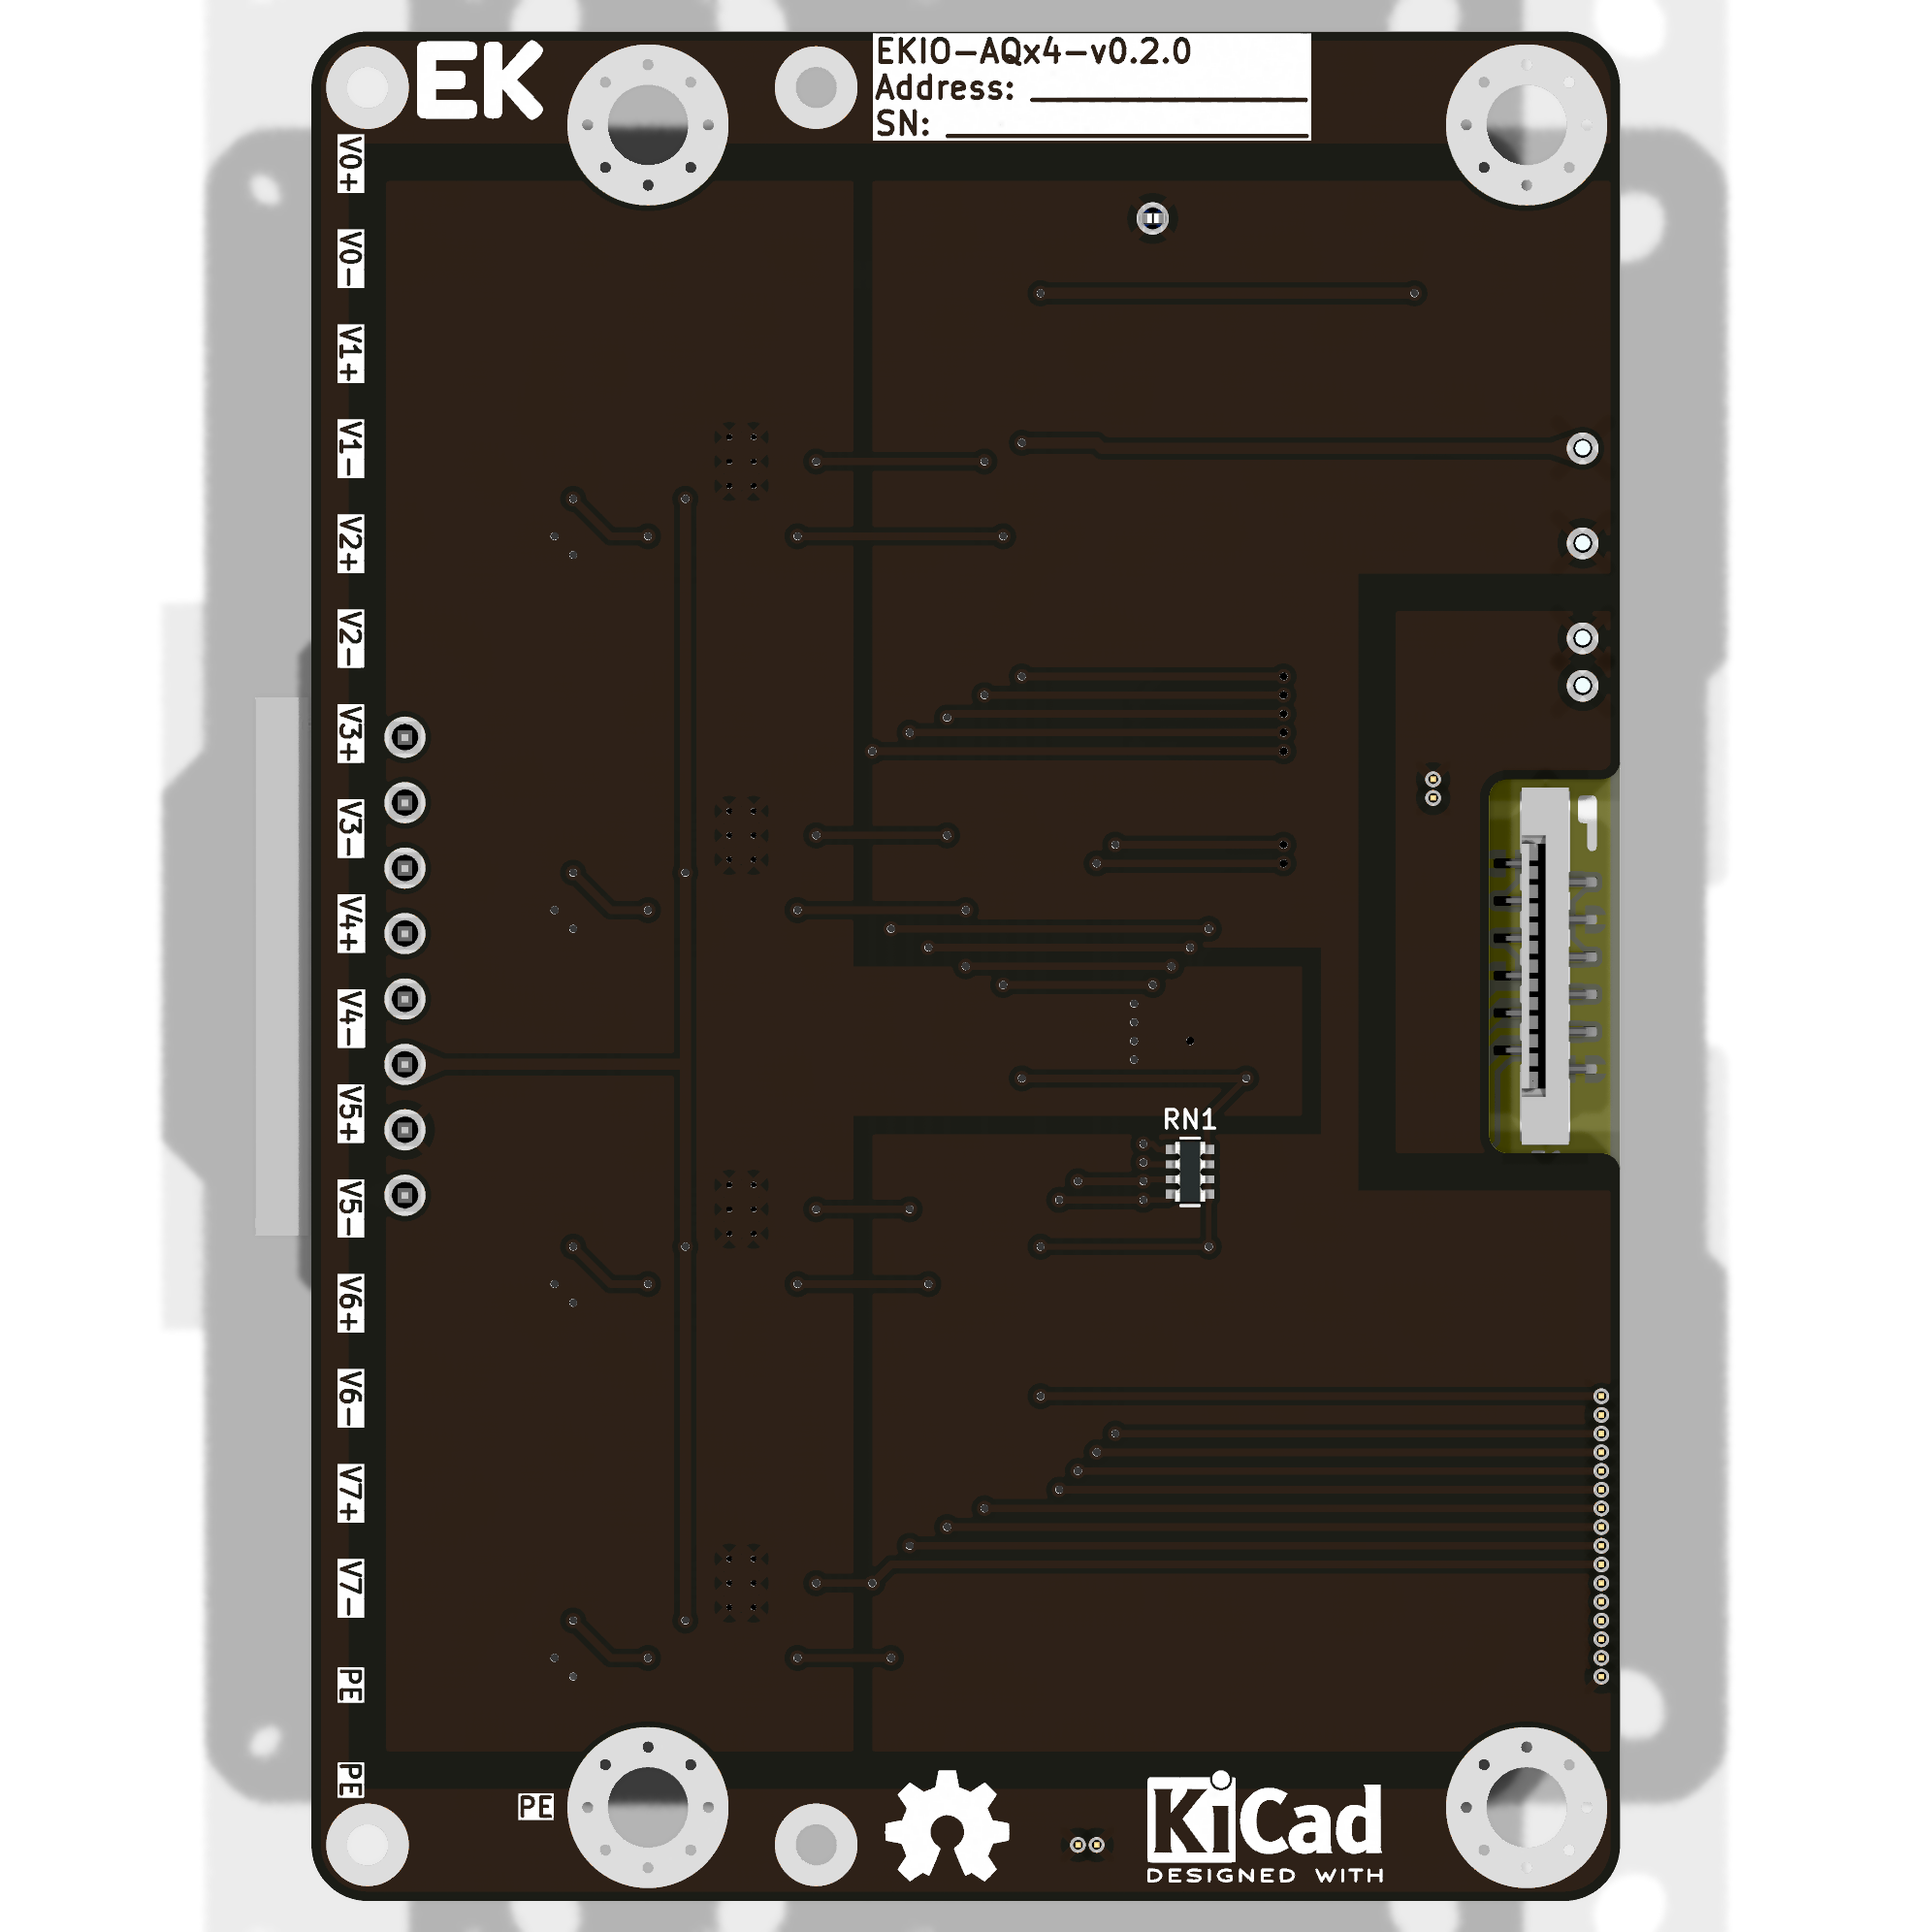
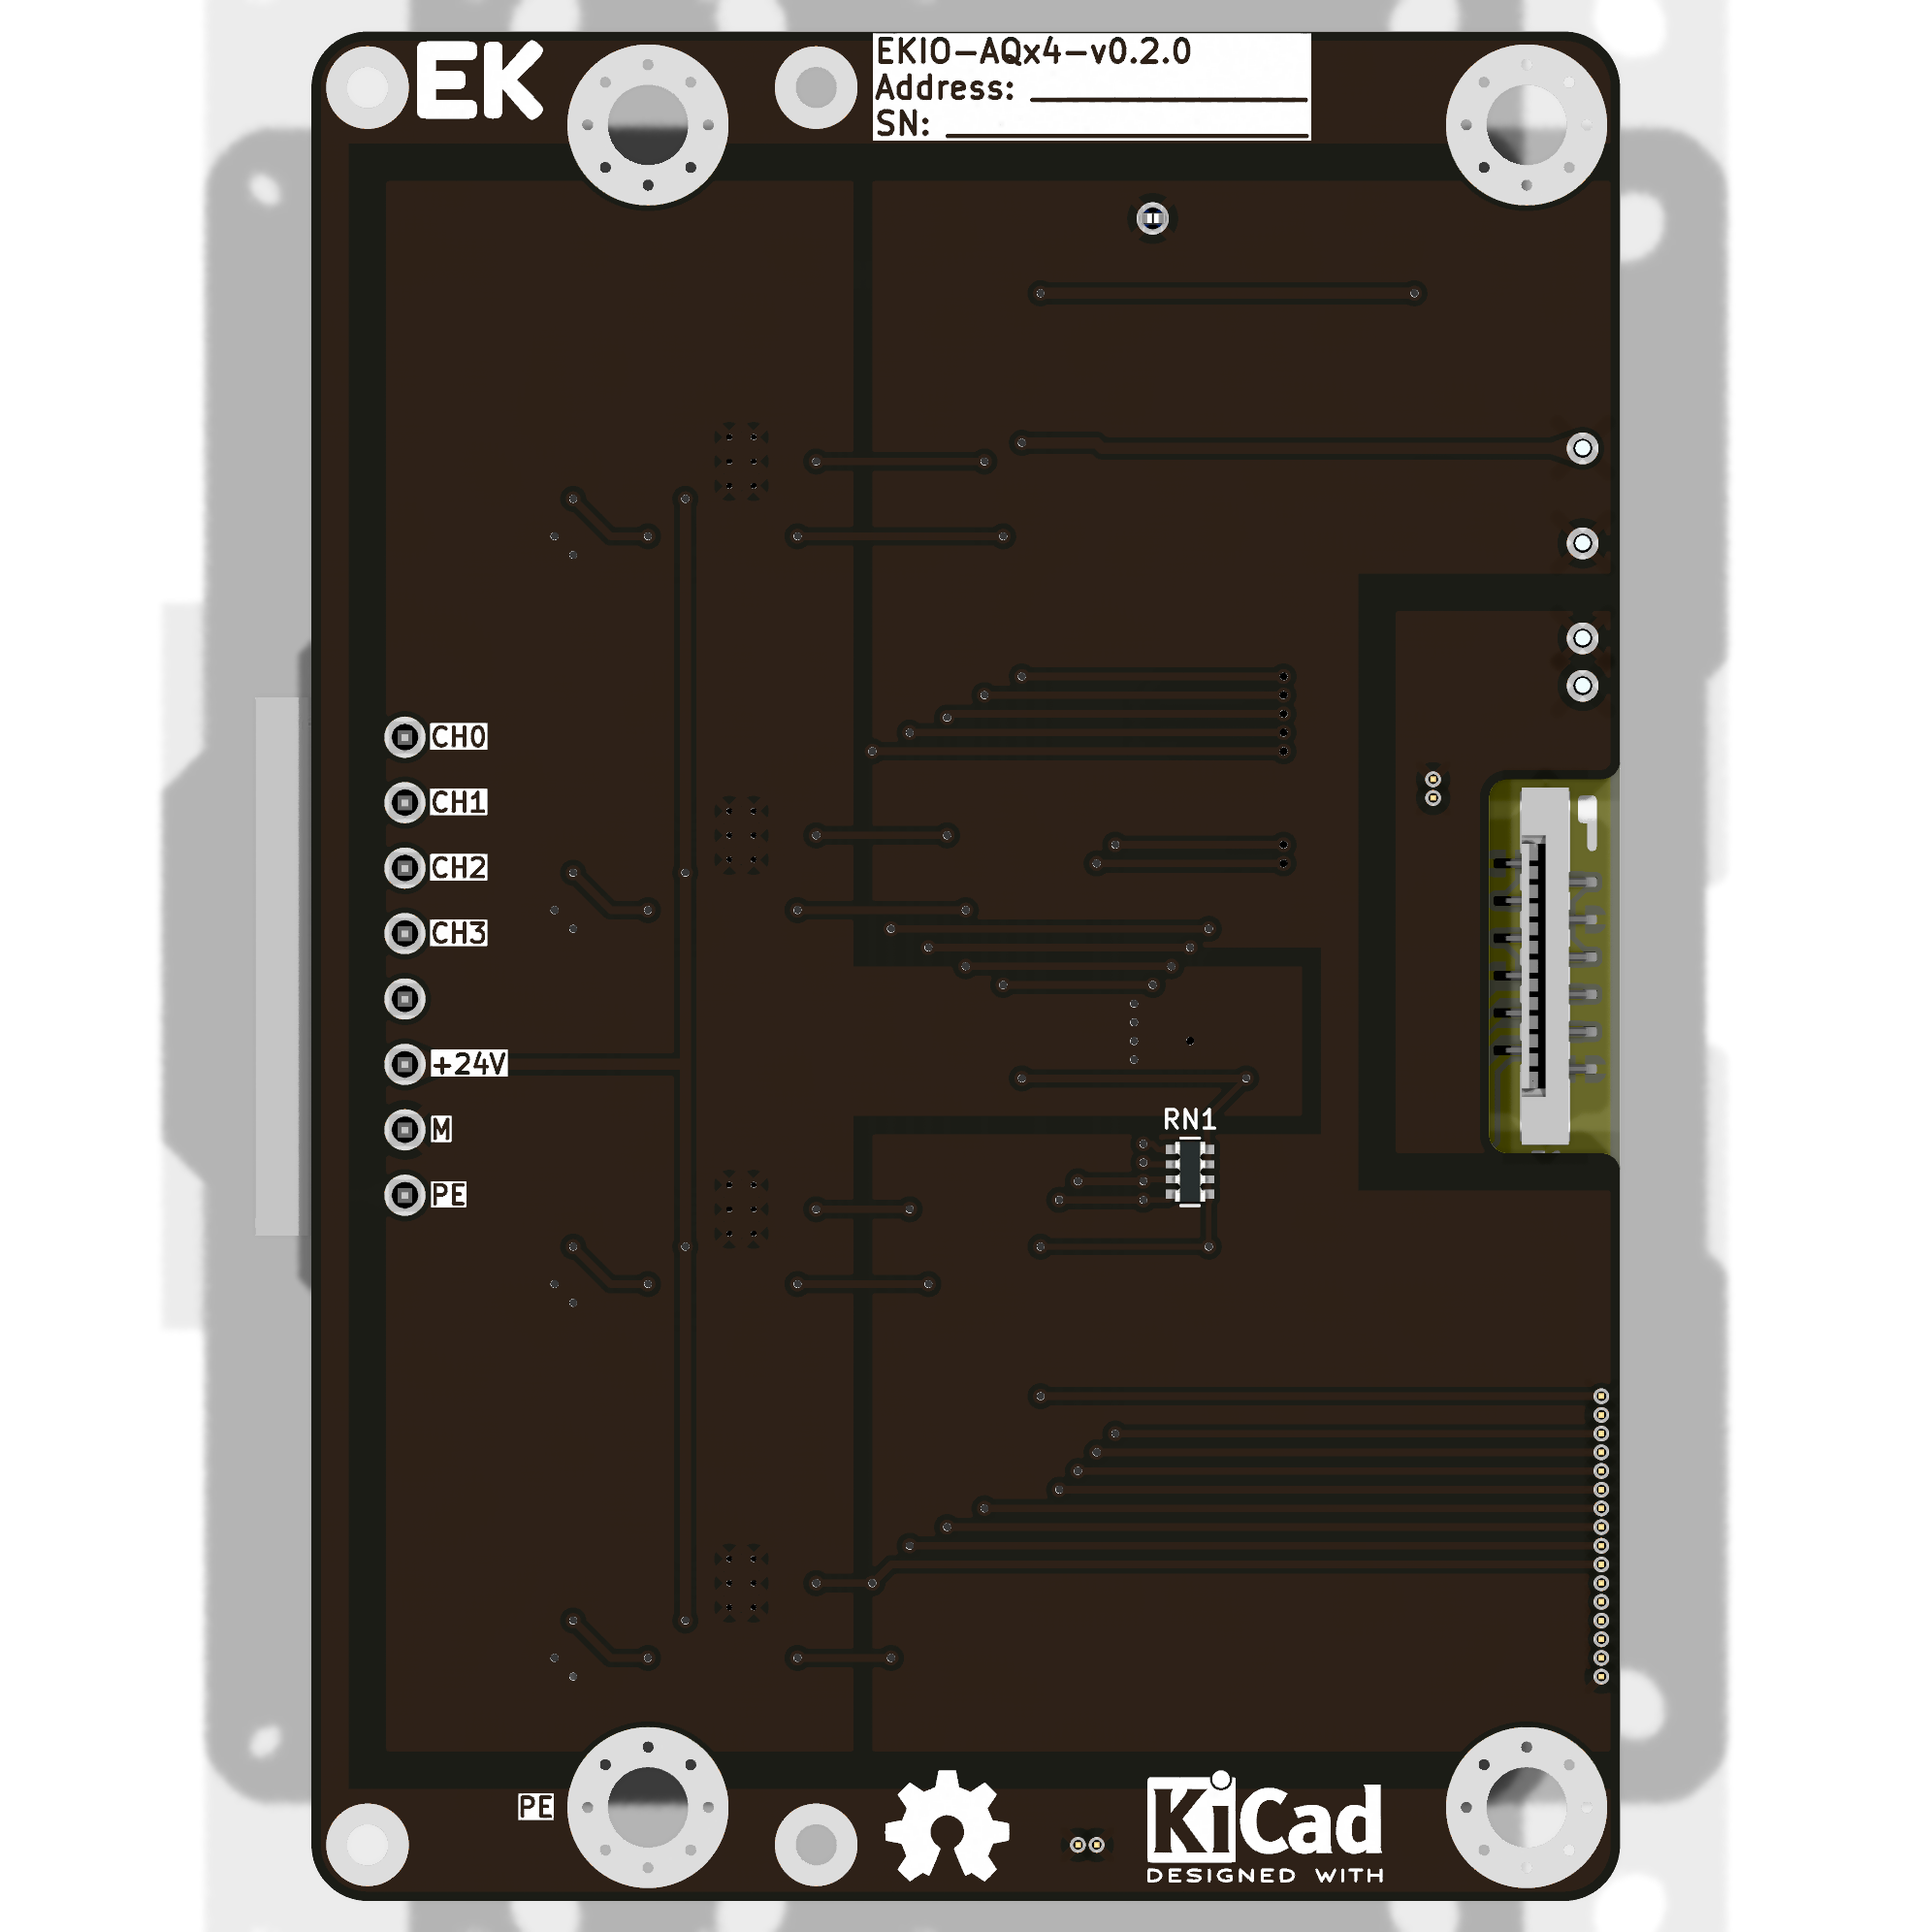
update

diff --git a/src/content/docs/modules/description/EKIO-AQx4/options.ts b/src/content/docs/modules/description/EKIO-AQx4/options.ts
@@ -1,0 +1,37 @@
+import type {
+  IOptionsConfig,
+  IOption,
+  IOptionVariant,
+} from "@components/Options.astro";
+
+const channel: IOptionVariant[] = [
+  { name: "x", desc: "Не использовать", price: 777 },
+  { name: "V", desc: "Напряжение 0–10 В", price: 777 },
+  { name: "I", desc: "Ток 0–20 мА / 4–20 мА", price: 777 },
+];
+
+export const options_config: IOptionsConfig = {
+  base_price: 14.8,
+  options: [
+    {
+      name: "Тип выхода канал CH0",
+      default: 2,
+      variants: channel
+    } as IOption,
+    {
+      name: "Тип выхода канал CH1",
+      default: 2,
+      variants: channel
+    } as IOption,
+    {
+      name: "Тип выхода канал CH2",
+      default: 2,
+      variants: channel
+    } as IOption,
+    {
+      name: "Тип выхода канал CH3",
+      default: 2,
+      variants: channel
+    } as IOption,
+  ],
+};
